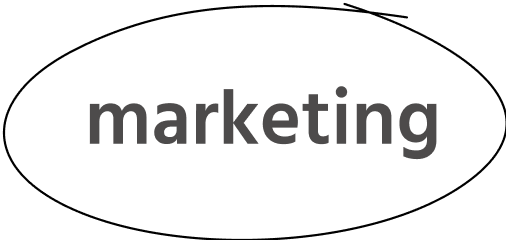
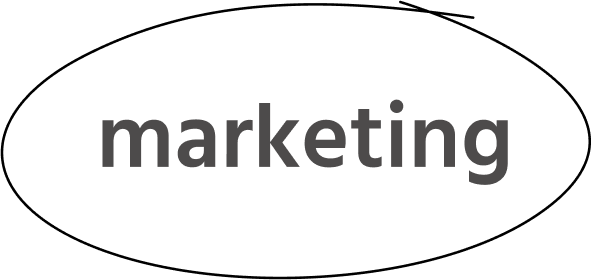
some changes

diff --git a/index.html b/index.html
@@ -258,7 +258,7 @@
           </div>
             <div class="row main-services d-flex align-items-center justify-content-start">
             <div class="col-lg-4 col-md-6 service-three align-items-center d-flex justify-content-center">
-              <img src="images/marketing2.png" alt="" class="service-one">
+              <img src="images/marketing.png" alt="" class="service-one">
             </div>
           </div>
 

diff --git a/style.css b/style.css
@@ -33,7 +33,6 @@ button:focus {
 .bg-light{
   background-color: rgb(179, 210, 212)!important;
   box-shadow: 0 0 5px 10px rgb(179, 210, 212);
-  /* background-color: transparent!important; */
 }
 .bg-light.scrolled{
   background-color: transparent!important;
@@ -101,6 +100,7 @@ button:focus {
 }
 .get-btn:hover{
   color: #4D4B4B;
+  text-decoration: none;
 }
 .arrow_next{
   position: absolute;

diff --git a/german.html b/german.html
@@ -200,7 +200,7 @@
 
               <div class="slide col-4">
                 <div class="">
-                  <h1 class="text-slider">wir gestalten und entwickeln deinen webauftritt</h1>
+                  <h1 class="text-slider">wir gestalten und entwickeln deinen persönlichen webauftritt</h1>
                 </div>
 
                 <div class="get-button">
